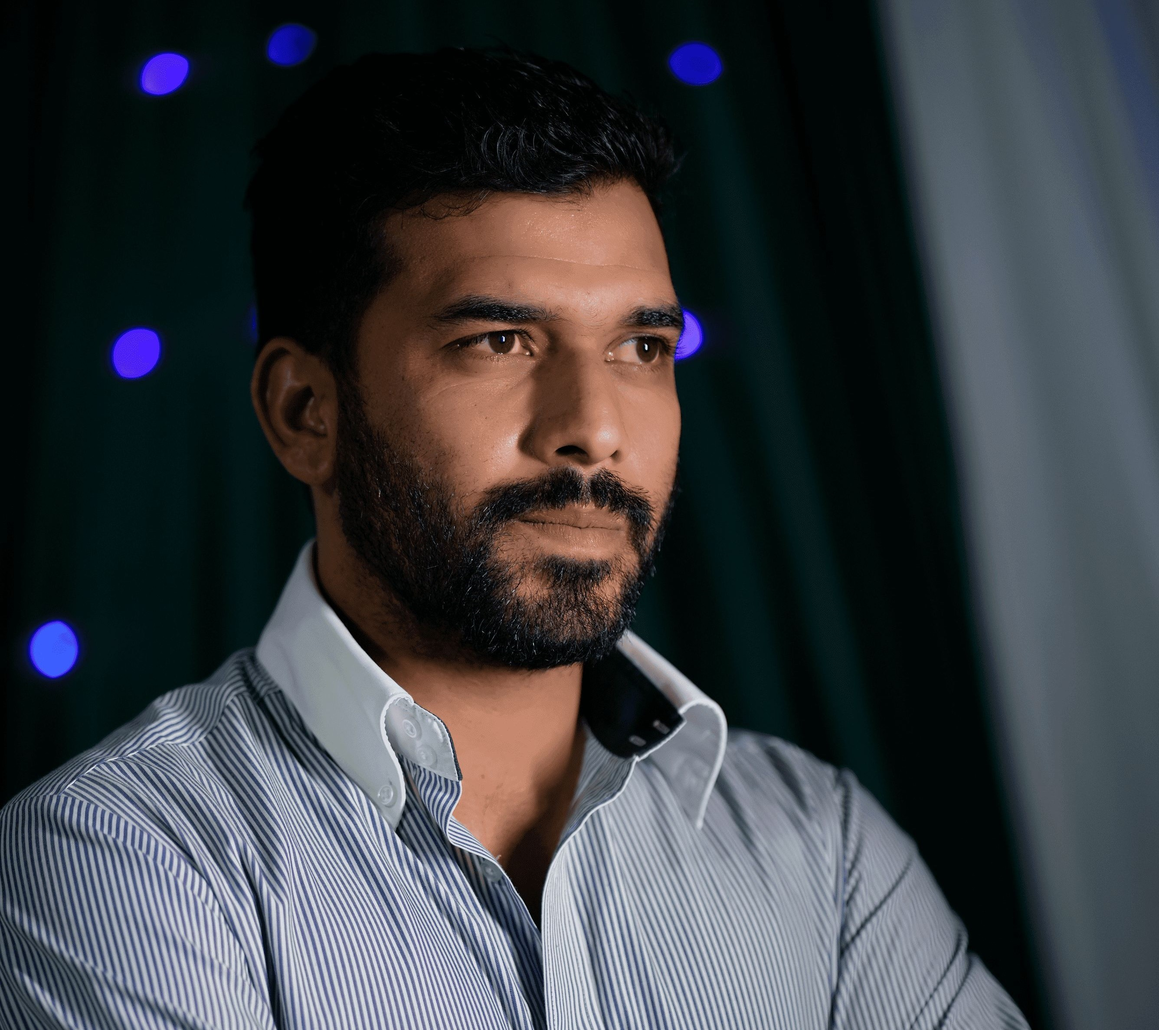
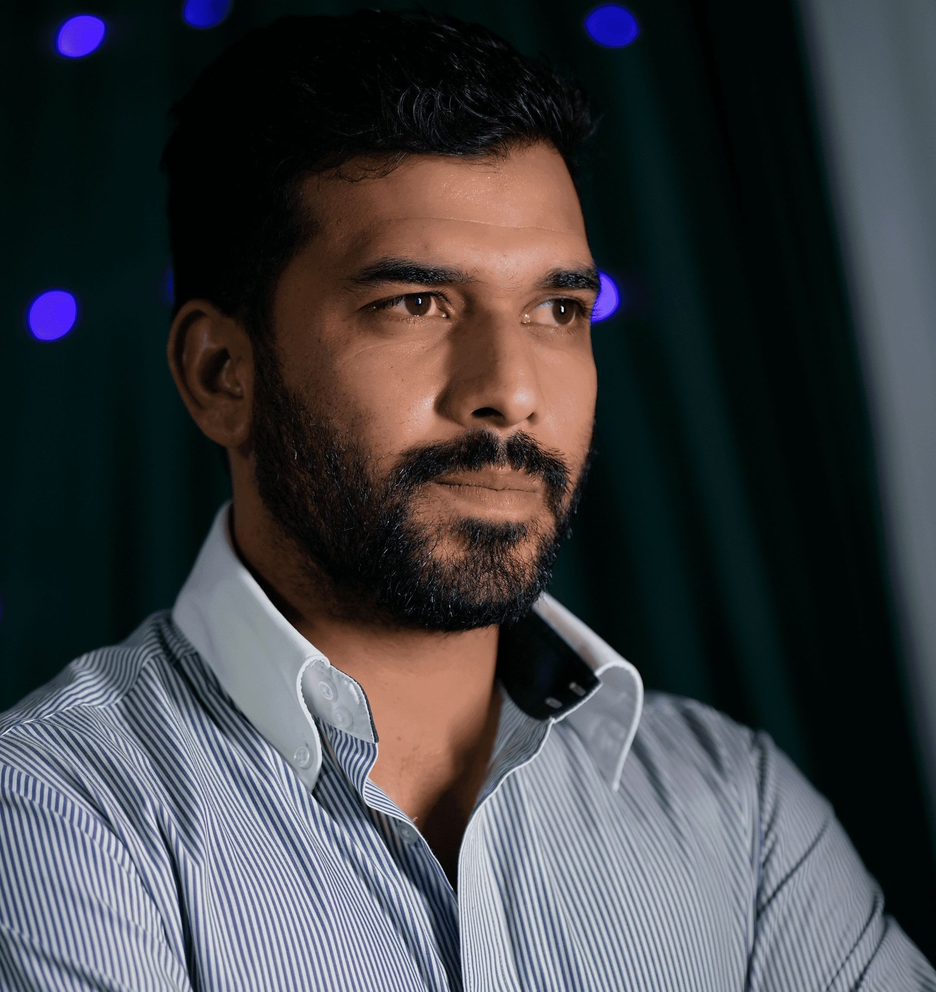
fixed team page

diff --git a/src/app/ourteam/page.js b/src/app/ourteam/page.js
@@ -1,9 +1,11 @@
 "use client";
 
 import {
+  Box,
   chakra,
   Container,
   Flex,
+  Heading,
   useColorModeValue,
   VStack,
 } from "@chakra-ui/react";
@@ -43,10 +45,10 @@ const testimonials = [
   {
     name: "Vikas",
     role: "Architect",
-    content: ` Vikas is a dynamic and innovative young architect, whose passion for design and expertise in construction detailing have made a significant mark in the architectural industry. With a keen eye for detail and a creative mind, Vikas has become a prominent figure in the field, renowned for his exceptional skills in crafting intricate and well-thought-out architectural designs.
+    content: ` Vikas is a dynamic and innovative young architect, whose passion for design and expertise in construction detailing have made a significant mark in the architectural industry. With a keen eye for detail and a creative mind, Vikas has become a prominent figure in the field, renowned for his exceptional skills in crafting intricate and well-thought-out architectural designs.{" "}
     Vikas's portfolio boasts a diverse range of projects, each reflecting his unique design sensibilities and commitment to quality. Whether it's a modern urban residence, a commercial complex, or a public institution, Vikas infuses his designs with creativity and practicality, ensuring that they not only captivate the eye but also serve the needs of the occupants seamlessly.`,
     avatar:
-      "https://images.unsplash.com/photo-1606513542745-97629752a13b?ixid=MXwxMjA3fDB8MHxwaG90by1wYWdlfHx8fGVufDB8fHw%3D&ixlib=rb-1.2.1&auto=format&fit=crop&w=334&q=80",
+      "/team/vikas.jpg",
   },
   {
     name: "Rakib Abbas",
@@ -61,7 +63,7 @@ function TestimonialCard(props) {
   const { name, role, content, avatar, index } = props;
   return (
     <Flex
-      w={"85rem"}
+      maxW={"70rem"}
       direction={{ base: "column-reverse", md: "row" }}
       width={"full"}
       p={10}
@@ -75,19 +77,17 @@ function TestimonialCard(props) {
         justifyContent={"space-between"}
       >
         <chakra.p
-          fontFamily={"Inter"}
-          fontWeight={"medium"}
-          fontSize={"15px"}
+          fontWeight={"light"}
+          fontSize={"14px"}
           pb={4}
           maxW={"40rem"}
         >
           {content}
         </chakra.p>
-        <chakra.p fontFamily={"Work Sans"} fontWeight={"bold"} fontSize={14}>
+        <chakra.p fontWeight={"bold"} fontSize={14}>
           {name}
           <chakra.span
-            fontFamily={"Inter"}
-            fontWeight={"medium"}
+            fontWeight={"light"}
             color={"gray.500"}
           >
             {" "}
@@ -97,10 +97,9 @@ function TestimonialCard(props) {
       </Flex>
       <Image
         src={avatar}
-        height={200}
-        width={200}
-        alignSelf={"center"}
-        style={{borderRadius:"50%"}}
+        height={250}
+        width={250}
+        style={{borderRadius:"50%", overflow: "hidden"}}
         m={{ base: "0 0 35px 0", md: "0 0 0 50px" }}
       />
     </Flex>
@@ -109,14 +108,15 @@ function TestimonialCard(props) {
 
 export default function GridBlurredBackdrop() {
   return (
-    <VStack
+    <Container
       textAlign={"center"}
       pt={10}
       justifyContent={"center"}
       direction={"column"}
-      width={"full"}
+      maxW={"75rem"}
       overflow={"hidden"}
     >
+      <Heading fontSize={"3xl"} mt={20}>Our Team</Heading>
       <VStack
         columns={{ base: 1, xl: 2 }}
         spacing={"20"}
@@ -128,6 +128,6 @@ export default function GridBlurredBackdrop() {
           <TestimonialCard key={index} {...cardInfo} index={index} />
         ))}
       </VStack>
-    </VStack>
+    </Container>
   );
 }
